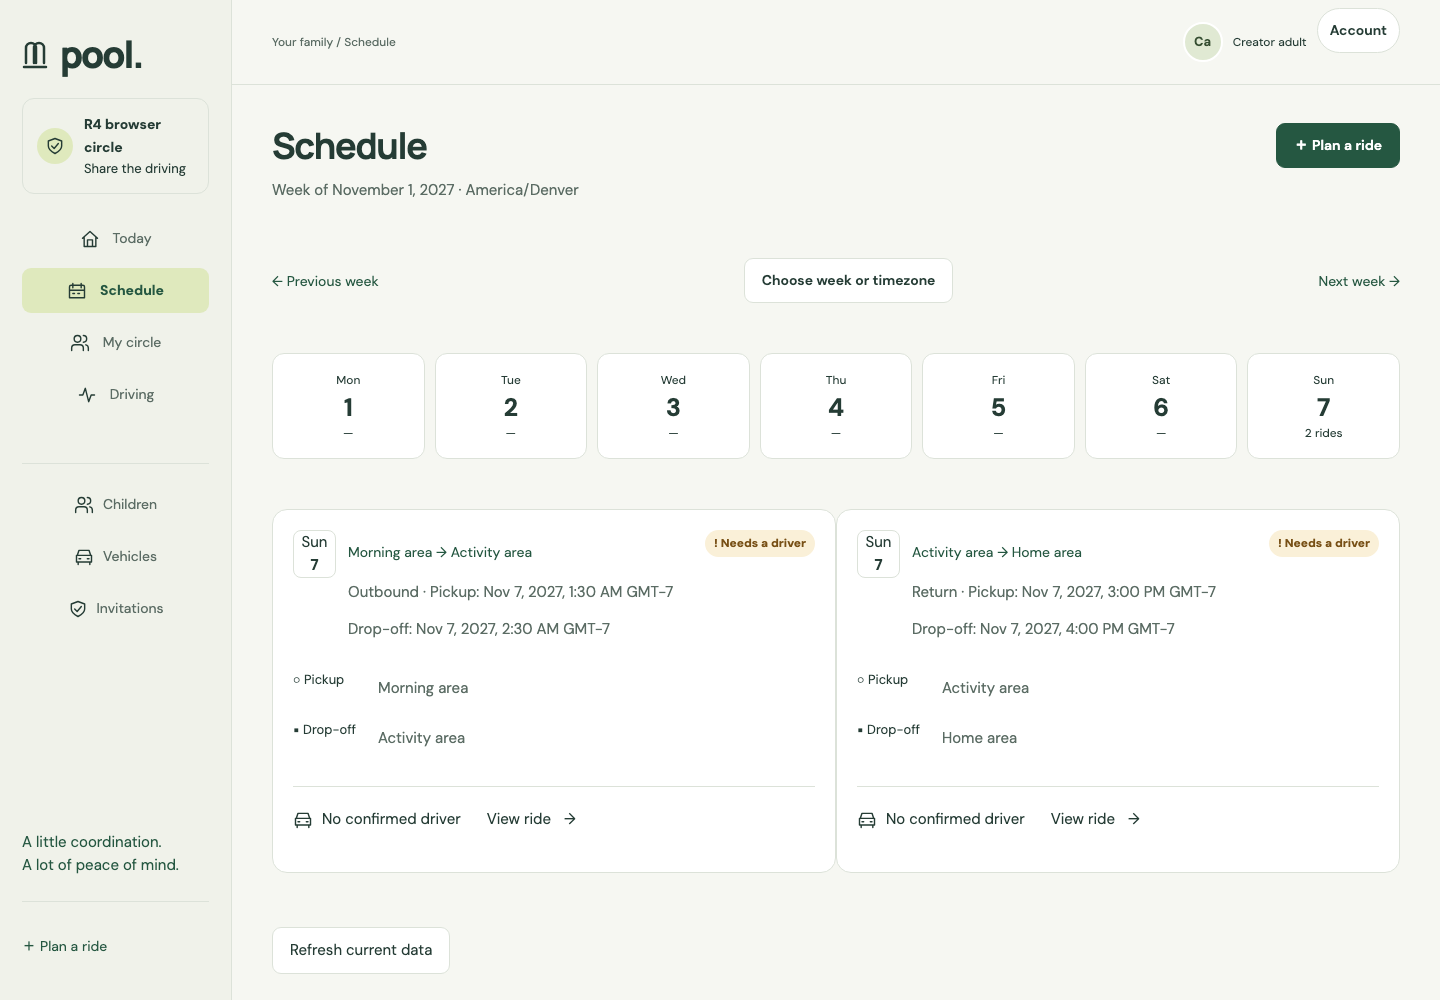
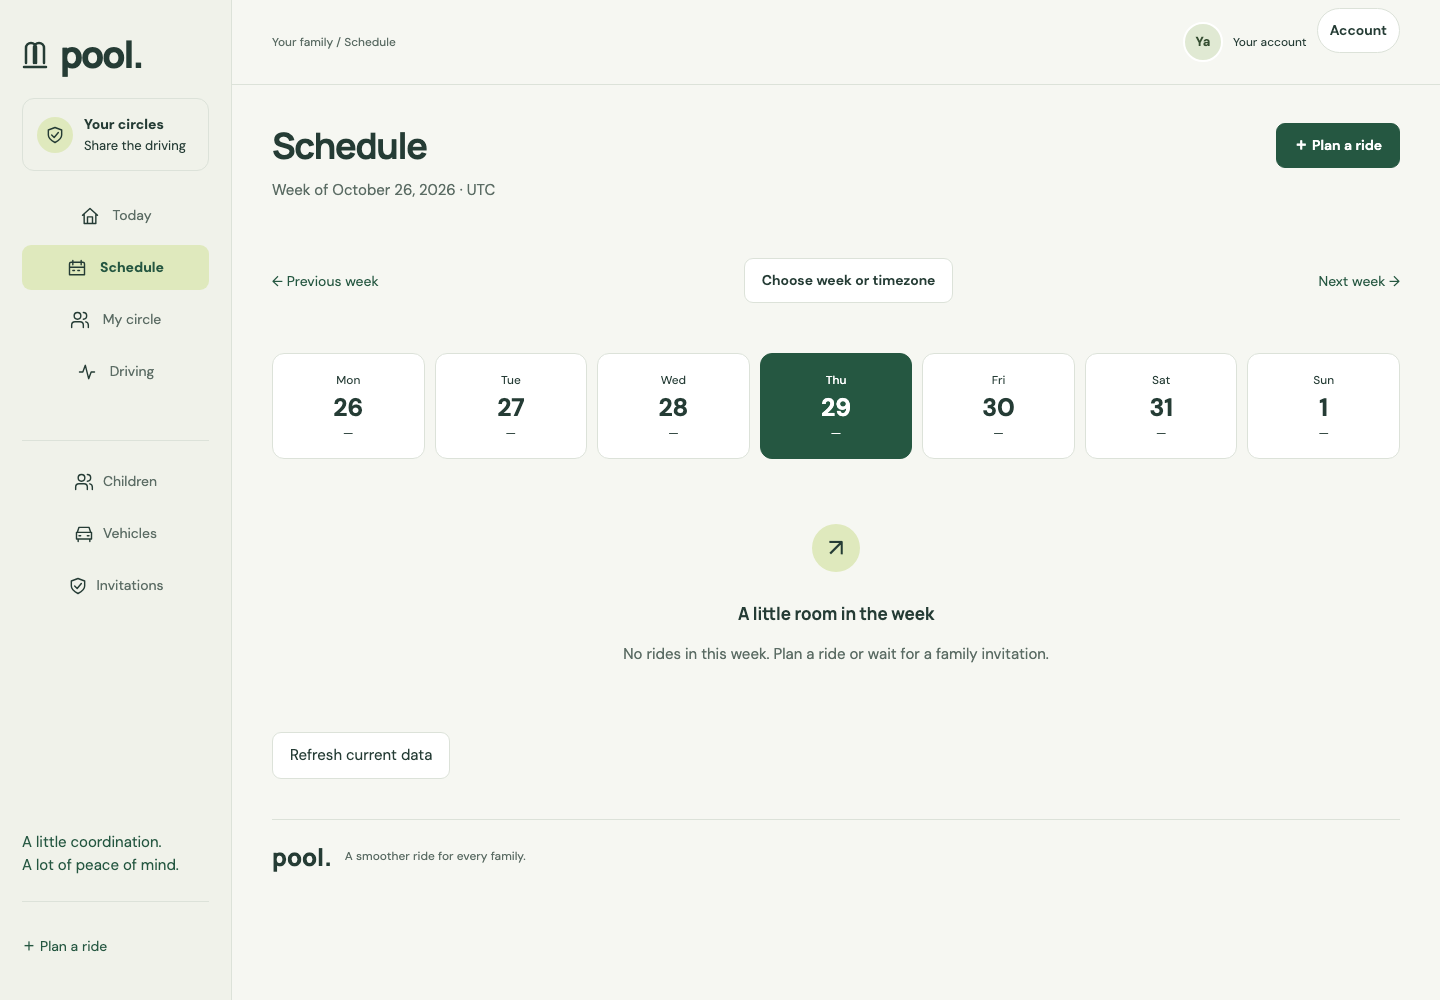
Keep route changes and native detail navigation usable on phones

diff --git a/src/ui/shell.tsx b/src/ui/shell.tsx
@@ -1,6 +1,6 @@
 import { TypographyScale } from "./elements";
 import { SkipLink } from "./web-accessibility";
-import { useState, type ReactNode } from "react";
+import { useEffect, useRef, useState, type ReactNode } from "react";
 import {
   ScrollView,
   View,
@@ -10,9 +10,10 @@ import {
   KeyboardAvoidingView,
   Platform,
   RefreshControl,
+  type ScrollViewInstance,
 } from "react-native";
 import { useSafeAreaInsets } from "react-native-safe-area-context";
-import { usePathname } from "expo-router";
+import { router, usePathname } from "expo-router";
 import { useQuery } from "@tanstack/react-query";
 import { createClient } from "@/lib/supabase/client";
 import { useSession } from "@/services/session";
@@ -87,6 +88,10 @@ export function ApplicationShell({ children }: { children: ReactNode }) {
     { user } = useSession(),
     pathname = usePathname();
   const [refreshing, setRefreshing] = useState(false);
+  const content = useRef<ScrollViewInstance>(null);
+  useEffect(() => {
+    content.current?.scrollTo({ y: 0, animated: false });
+  }, [pathname]);
   const context = useQuery({
     queryKey: ["account", user?.id, "shell"],
     enabled: Boolean(user),
@@ -235,7 +240,7 @@ export function ApplicationShell({ children }: { children: ReactNode }) {
         <View style={{ flex: 1, minWidth: 0 }}>
           <View
             style={{
-              height: mobile ? 70 : 85,
+              minHeight: mobile ? 70 : 85,
               paddingHorizontal: mobile ? 18 : 40,
               borderBottomWidth: 1,
               borderColor: colors.line,
@@ -245,6 +250,29 @@ export function ApplicationShell({ children }: { children: ReactNode }) {
               gap: 10,
             }}
           >
+            {Platform.OS !== "web" &&
+              /^\/app\/(families|circles|rides)\//.test(pathname) && (
+                <Pressable
+                  accessibilityRole="button"
+                  accessibilityLabel="Go back"
+                  onPress={() =>
+                    router.canGoBack()
+                      ? router.back()
+                      : router.replace("/app/attention")
+                  }
+                  style={[
+                    styles.button,
+                    {
+                      width: 44,
+                      padding: 0,
+                      borderWidth: 0,
+                      backgroundColor: "transparent",
+                    },
+                  ]}
+                >
+                  <Text style={[styles.text, { fontSize: 26 }]}>‹</Text>
+                </Pressable>
+              )}
             <Text
               style={[
                 styles.text,
@@ -276,6 +304,7 @@ export function ApplicationShell({ children }: { children: ReactNode }) {
             style={{ flex: 1 }}
           >
             <ScrollView
+              ref={content}
               keyboardShouldPersistTaps="handled"
               refreshControl={
                 Platform.OS === "web" ? undefined : (

diff --git a/docs/expo-migration/README.md b/docs/expo-migration/README.md
@@ -20,6 +20,11 @@ navigation. Shared React Native styles drive responsive composition. Small web
 adapters retain native browser date/select controls, focus management and links.
 There is no WebView or separate product implementation.
 
+New destinations reset the shared content scroller, while refetches retain the
+current form position. Native detail screens expose an explicit back action and
+headers can grow with larger text. Cross-platform journeys use the visible refresh
+control when another participant has changed a ride.
+
 `after/` contains screenshots from the migrated real-user journeys. Compare only
 matching named states and viewports; independently created disposable records
 have different fictional participants/identifiers. No existing developer records
